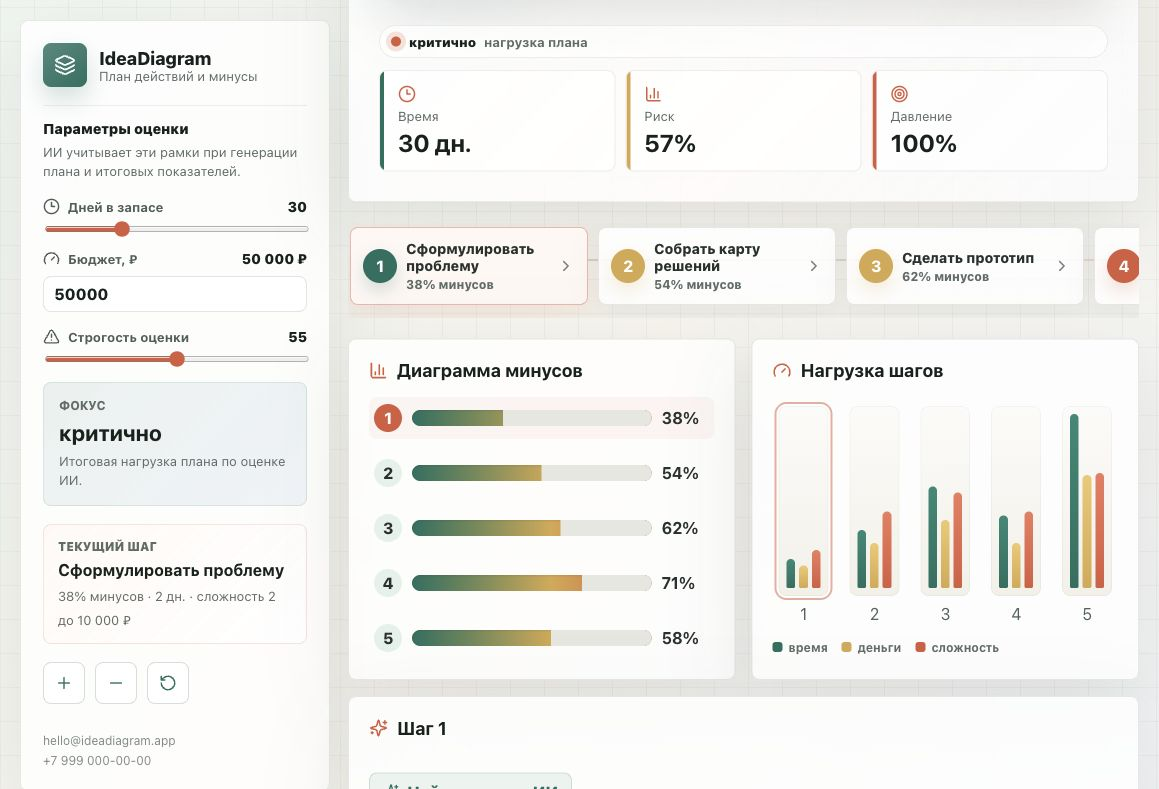
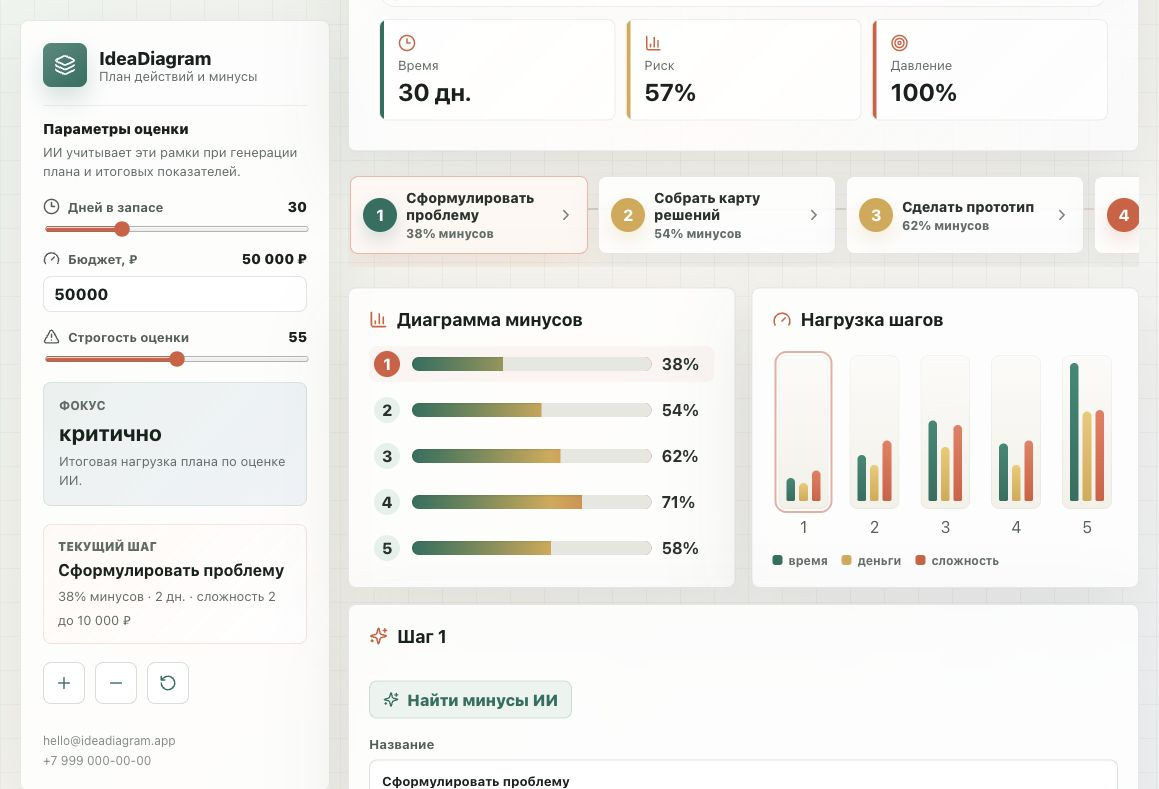
Polish responsive planner UI

Changed region(s): [[0.2796, 0.0, 0.994, 1.0], [0.6523, 0.4563, 0.8076, 0.5171], [0.9008, 0.4563, 0.9318, 0.5171]]

diff --git a/src/styles.css b/src/styles.css
@@ -44,10 +44,7 @@ button {
   min-height: 100vh;
   padding: 20px;
   background:
-    linear-gradient(90deg, rgba(23, 33, 29, 0.035) 1px, transparent 1px),
-    linear-gradient(0deg, rgba(23, 33, 29, 0.035) 1px, transparent 1px),
     linear-gradient(135deg, #edf6f1 0%, #f7f4ed 48%, #edf2f8 100%);
-  background-size: 34px 34px, 34px 34px, auto;
 }
 
 .workspace {
@@ -194,7 +191,7 @@ textarea:focus {
   display: grid;
   gap: 14px;
   max-width: 780px;
-  margin-top: 24px;
+  margin-top: 20px;
   padding: 12px;
   border: 1px solid rgba(23, 33, 29, 0.09);
   border-radius: 8px;
@@ -212,7 +209,7 @@ textarea:focus {
 }
 
 .prompt-box textarea {
-  min-height: 96px;
+  min-height: 82px;
   border-color: rgba(31, 111, 95, 0.16);
   background: rgba(255, 255, 255, 0.9);
   font-size: 15px;
@@ -236,7 +233,7 @@ textarea:focus {
 }
 
 .ai-button {
-  min-width: 176px;
+  min-width: 168px;
   padding: 0 18px;
 }
 
@@ -419,11 +416,11 @@ input[type="range"] {
 .planner-hero {
   position: relative;
   display: grid;
-  grid-template-columns: minmax(0, 1fr) minmax(236px, 350px);
-  gap: 26px;
-  align-items: start;
+  grid-template-columns: minmax(0, 1fr) minmax(236px, 320px);
+  gap: 22px;
+  align-items: stretch;
   min-width: 0;
-  padding: 30px;
+  padding: 26px;
   overflow: hidden;
   border: 1px solid rgba(23, 33, 29, 0.09);
   border-radius: 8px;
@@ -442,7 +439,9 @@ input[type="range"] {
 
 .hero-aside {
   display: grid;
-  gap: 12px;
+  grid-template-rows: auto 1fr;
+  gap: 7px;
+  height: 100%;
 }
 
 .eyebrow {
@@ -465,8 +464,8 @@ h2 {
 h1 {
   max-width: 760px;
   color: #111915;
-  font-size: clamp(34px, 4.4vw, 64px);
-  line-height: 0.96;
+  font-size: clamp(34px, 4vw, 56px);
+  line-height: 1;
 }
 
 .planner-hero p:not(.eyebrow) {
@@ -484,7 +483,8 @@ h1 {
   gap: 8px;
   width: 100%;
   margin-top: 0;
-  padding: 8px 11px;
+  min-height: 32px;
+  padding: 5px 10px;
   border: 1px solid rgba(23, 33, 29, 0.08);
   border-radius: 999px;
   background: rgba(255, 255, 255, 0.68);
@@ -518,16 +518,19 @@ h1 {
 .summary-grid {
   display: grid;
   grid-template-columns: 1fr;
-  gap: 10px;
+  grid-template-rows: repeat(3, 1fr);
+  gap: 7px;
 }
 
 .metric {
   position: relative;
   display: grid;
-  min-height: 84px;
-  gap: 5px;
+  grid-template-columns: 22px minmax(0, 1fr) auto;
+  min-height: 62px;
+  gap: 6px;
   align-content: center;
-  padding: 14px 14px 14px 18px;
+  align-items: center;
+  padding: 7px 12px 7px 18px;
   overflow: hidden;
   border: 1px solid rgba(24, 32, 29, 0.08);
   border-radius: 8px;
@@ -551,6 +554,8 @@ h1 {
 }
 
 .metric svg {
+  grid-row: auto;
+  align-self: center;
   color: var(--red);
 }
 
@@ -560,7 +565,9 @@ h1 {
 }
 
 .metric strong {
-  font-size: clamp(20px, 2.1vw, 30px);
+  grid-column: 3;
+  font-size: clamp(18px, 1.5vw, 22px);
+  line-height: 1.05;
 }
 
 .flow-section {
@@ -653,7 +660,7 @@ h1 {
 
 .analysis-grid {
   display: grid;
-  grid-template-columns: minmax(260px, 0.85fr) minmax(260px, 0.85fr) minmax(340px, 1.2fr);
+  grid-template-columns: repeat(2, minmax(0, 1fr));
   gap: 16px;
   align-items: stretch;
   min-width: 0;
@@ -683,7 +690,7 @@ h2 {
 
 .bar-chart {
   display: grid;
-  gap: 13px;
+  gap: 10px;
 }
 
 .bar-row {
@@ -691,7 +698,7 @@ h2 {
   grid-template-columns: 28px minmax(0, 1fr) 48px;
   align-items: center;
   gap: 10px;
-  min-height: 42px;
+  min-height: 36px;
   padding: 5px;
   border: 0;
   border-radius: 8px;
@@ -703,8 +710,8 @@ h2 {
 
 .bar-row span:first-child {
   display: grid;
-  width: 28px;
-  height: 28px;
+  width: 26px;
+  height: 26px;
   place-items: center;
   border-radius: 50%;
   background: var(--green-soft);
@@ -722,7 +729,7 @@ h2 {
 
 .bar-track {
   position: relative;
-  height: 16px;
+  height: 14px;
   overflow: hidden;
   border-radius: 999px;
   background:
@@ -741,9 +748,9 @@ h2 {
 
 .load-chart {
   display: grid;
-  grid-template-columns: repeat(5, minmax(30px, 1fr));
-  gap: 9px;
-  min-height: 222px;
+  grid-template-columns: repeat(auto-fit, minmax(34px, 1fr));
+  gap: 8px;
+  min-height: 190px;
   align-items: end;
   padding-top: 8px;
 }
@@ -764,9 +771,9 @@ h2 {
   align-items: end;
   width: 100%;
   max-width: 72px;
-  height: 190px;
-  gap: 4px;
-  padding: 8px;
+  height: 154px;
+  gap: 3px;
+  padding: 7px;
   border-radius: 8px;
   background:
     linear-gradient(180deg, rgba(255, 255, 255, 0.72), rgba(242, 240, 232, 0.86)),
@@ -834,6 +841,7 @@ h2 {
 
 .detail-panel {
   display: grid;
+  grid-column: 1 / -1;
   align-content: start;
   gap: 18px;
 }
@@ -936,18 +944,21 @@ h2 {
 @media (max-width: 1280px) {
   .planner-hero {
     grid-template-columns: 1fr;
+    align-items: start;
+  }
+
+  .hero-aside {
+    grid-template-rows: auto;
+    height: auto;
   }
 
   .hero-aside .summary-grid {
     grid-template-columns: repeat(3, minmax(0, 1fr));
+    grid-template-rows: none;
   }
 
   .analysis-grid {
     grid-template-columns: repeat(2, minmax(0, 1fr));
-  }
-
-  .detail-panel {
-    grid-column: 1 / -1;
   }
 }
 
@@ -961,6 +972,7 @@ h2 {
     display: grid;
     grid-template-columns: repeat(2, minmax(0, 1fr));
     align-items: start;
+    min-height: 0;
     max-height: none;
     overflow: visible;
   }
@@ -1001,6 +1013,11 @@ h2 {
   .summary-grid,
   .score-row {
     grid-template-columns: 1fr;
+  }
+
+  .hero-aside .summary-grid {
+    grid-template-columns: 1fr;
+    grid-template-rows: none;
   }
 
   .prompt-box {

diff --git a/src/App.jsx b/src/App.jsx
@@ -410,6 +410,10 @@ function riskTone(value) {
   return "low";
 }
 
+function loadBarHeight(value, multiplier, min = 10) {
+  return `${clamp(Math.max(min, value * multiplier), min, 100)}%`;
+}
+
 function App() {
   const [templateId, setTemplateId] = useState(templates[0].id);
   const [customGoal, setCustomGoal] = useState("");
@@ -525,15 +529,9 @@ function App() {
       if (!response.ok) throw new Error(data.error || "Не получилось найти минусы.");
 
       updateStep(activeStep.index, {
-        action: data.action,
-        risk: data.risk,
-        time: data.time,
-        cost: data.cost,
-        complexity: data.complexity,
         cons: data.cons
       });
-      setAiSummary(normalizeSummary(data.summary, fallbackSummary));
-      setAiMessage("Шаг и показатели пересчитаны ИИ.");
+      setAiMessage("Минусы обновлены ИИ.");
     } catch (error) {
       setAiMessage(error.message);
     } finally {
@@ -637,7 +635,7 @@ function App() {
                 ИИ-планировщик
               </p>
               <h1>{customGoal || "Собери план действий"}</h1>
-              <p>{aiDescription || "Опиши задачу простыми словами, выбери направление, а ИИ соберет шаги, минусы и диаграммы риска."}</p>
+              <p>{aiDescription || "Опиши задачу простыми словами, а ИИ соберет шаги, минусы и диаграммы риска."}</p>
 
               <div className="ai-composer">
                 <div className="prompt-box">
@@ -717,7 +715,7 @@ function App() {
                 <Gauge size={19} />
                 <h2>Нагрузка шагов</h2>
               </div>
-              <div className="load-chart" aria-label="Сравнение времени, цены и сложности">
+              <div className="load-chart" aria-label="Сравнение времени, денег и сложности">
                 {chartData.map((step) => (
                   <button
                     type="button"
@@ -727,8 +725,8 @@ function App() {
                   >
                     <span className="load-stack">
                       <span className="load-time" style={{ height: `${Math.max(14, (step.time / maxTime) * 100)}%` }} />
-                      <span className="load-cost" style={{ height: `${Math.max(10, step.cost * 13)}%` }} />
-                      <span className="load-complexity" style={{ height: `${Math.max(10, step.complexity * 11)}%` }} />
+                      <span className="load-cost" style={{ height: loadBarHeight(step.cost, 12) }} />
+                      <span className="load-complexity" style={{ height: loadBarHeight(step.complexity, 11) }} />
                     </span>
                     <span>{step.index + 1}</span>
                   </button>